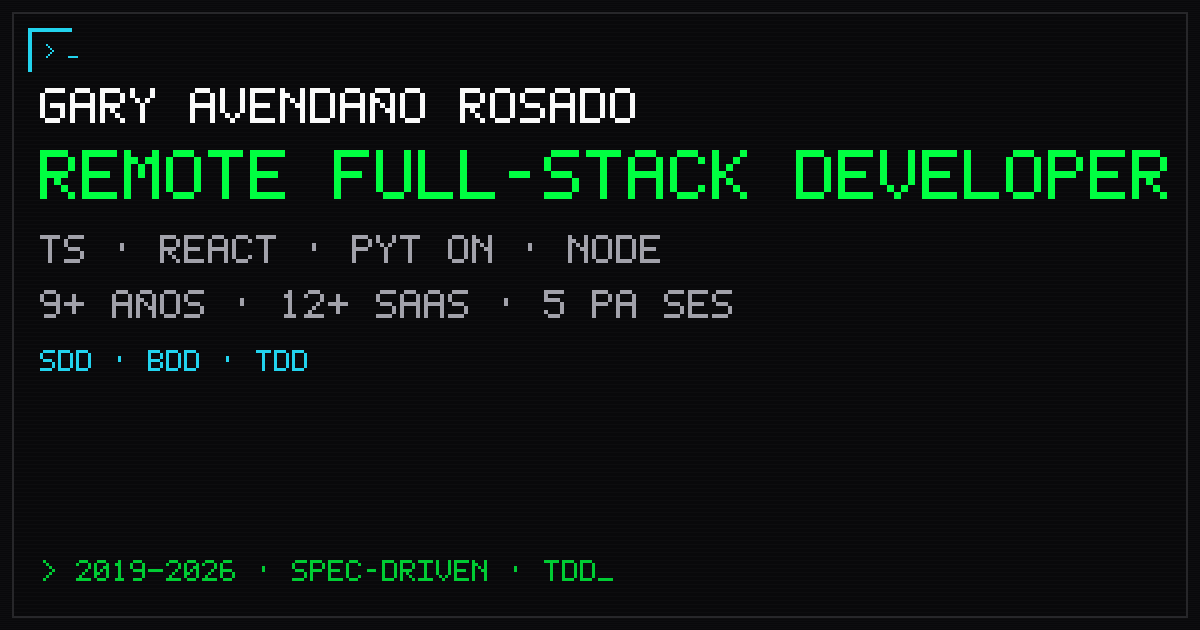
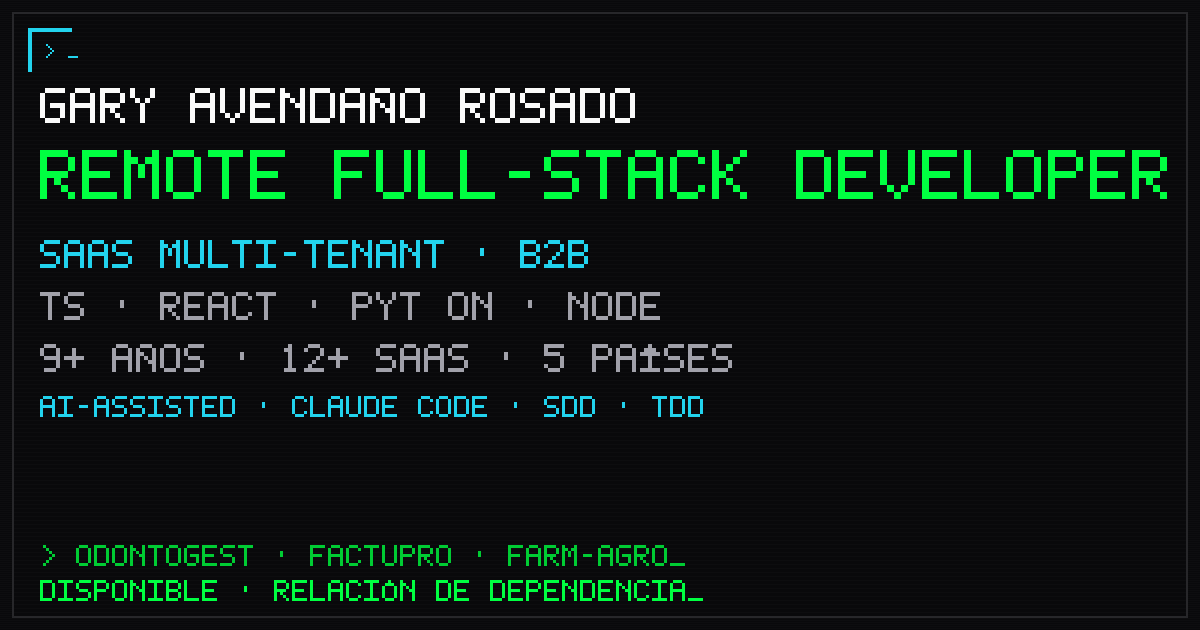
feat(seo): alinea JSON-LD y og-image con el mensaje actual
- JSON-LD WebSite.description ahora cita los productos (OdontoGest,
  FactuPro, Farm-Agro), la especialidad multi-tenant/B2B, el
  desarrollo asistido por IA y la disponibilidad bajo dependencia,
  igual que las metas
- twitter:image:alt actualizado al contenido real de la imagen
- og-gen.py: nueva línea de especialidad, tagline AI-ASSISTED ·
  CLAUDE CODE, productos en el pie y disponibilidad en verde; glifo
  Í añadido a la fuente bitmap para "PAÍSES"
- og-image.png regenerada (1200×630)

🤖 Generated with Codebuff

diff --git a/index.html b/index.html
@@ -35,7 +35,7 @@
     <meta name="twitter:title" content="Gary Avendaño Rosado | Remote Full-Stack Developer &amp; UI Designer">
     <meta name="twitter:description" content="Gary Avendaño Rosado — Remote Full-Stack Developer &amp; UI Designer en Ecuador. 9+ años creando SaaS (OdontoGest, FactuPro, Farm-Agro). Especialista en SaaS multi-tenant y B2B. Disponible bajo dependencia.">
     <meta name="twitter:image" content="https://avrowork.github.io/og-image.png">
-    <meta name="twitter:image:alt" content="Terminal: GARY AVENDAÑO ROSADO — Remote Full-Stack Developer. TS · React · Python · Node · SDD · BDD · TDD">
+    <meta name="twitter:image:alt" content="Terminal: GARY AVENDAÑO ROSADO — Remote Full-Stack Developer. SaaS multi-tenant · B2B · AI-assisted (Claude Code). Disponible bajo relación de dependencia.">
 
     <!-- JSON-LD Structured Data -->
     <script type="application/ld+json">
@@ -98,7 +98,7 @@
           "@type": "WebSite",
           "name": "Gary Avendaño Rosado — Portafolio",
           "url": "https://avrowork.github.io",
-          "description": "Portafolio profesional de Gary Avendaño Rosado. Remote Full-Stack Developer & UI Designer en Ecuador.",
+          "description": "Portafolio de Gary Avendaño Rosado — Remote Full-Stack Developer & UI Designer en Ecuador. Creador de OdontoGest, FactuPro y Farm-Agro. SaaS multi-tenant y B2B con desarrollo asistido por IA. Disponible bajo relación de dependencia.",
           "inLanguage": "es"
         }
       ]

diff --git a/og-gen.py b/og-gen.py
@@ -22,6 +22,7 @@ FONT = {
  'Ñ': ["01110","10001","11001","10101","10011","10001","10001"],
  'O': ["01110","10001","10001","10001","10001","10001","01110"],
  'Ó': ["00100","01110","10001","10001","10001","10001","01110"],
+ 'Í': ["00100","01110","11111","00100","00100","00100","11111"],
  'Á': ["00100","01110","10001","11111","10001","10001","10001"],
  'P': ["11110","10001","10001","11110","10000","10000","10000"],
  'R': ["11110","10001","10001","11110","10100","10010","10001"],
@@ -93,10 +94,12 @@ text("> _", 44, 44, 2, CYAN)
 # Contenido
 text("GARY AVENDAÑO ROSADO", 40, 88, 5, (250, 250, 250))
 text("REMOTE FULL-STACK DEVELOPER", 40, 150, 7, GREEN)
-text("TS · REACT · PYTHON · NODE", 40, 235, 4, MUTED)
-text("9+ AÑOS · 12+ SAAS · 5 PAÍSES", 40, 290, 4, MUTED)
-text("SDD · BDD · TDD", 40, 350, 3, CYAN)
-text("> 2019—2026 · SPEC-DRIVEN · TDD_", 40, 560, 3, DIM)
+text("SAAS MULTI-TENANT · B2B", 40, 240, 4, CYAN)
+text("TS · REACT · PYTHON · NODE", 40, 292, 4, MUTED)
+text("9+ AÑOS · 12+ SAAS · 5 PAÍSES", 40, 344, 4, MUTED)
+text("AI-ASSISTED · CLAUDE CODE · SDD · TDD", 40, 396, 3, CYAN)
+text("> ODONTOGEST · FACTUPRO · FARM-AGRO_", 40, 545, 3, DIM)
+text("DISPONIBLE · RELACIÓN DE DEPENDENCIA_", 40, 580, 3, GREEN)
 
 # PNG
 raw = b''.join(b'\x00' + b''.join(bytes(px[y][x]) for x in range(W)) for y in range(H))
